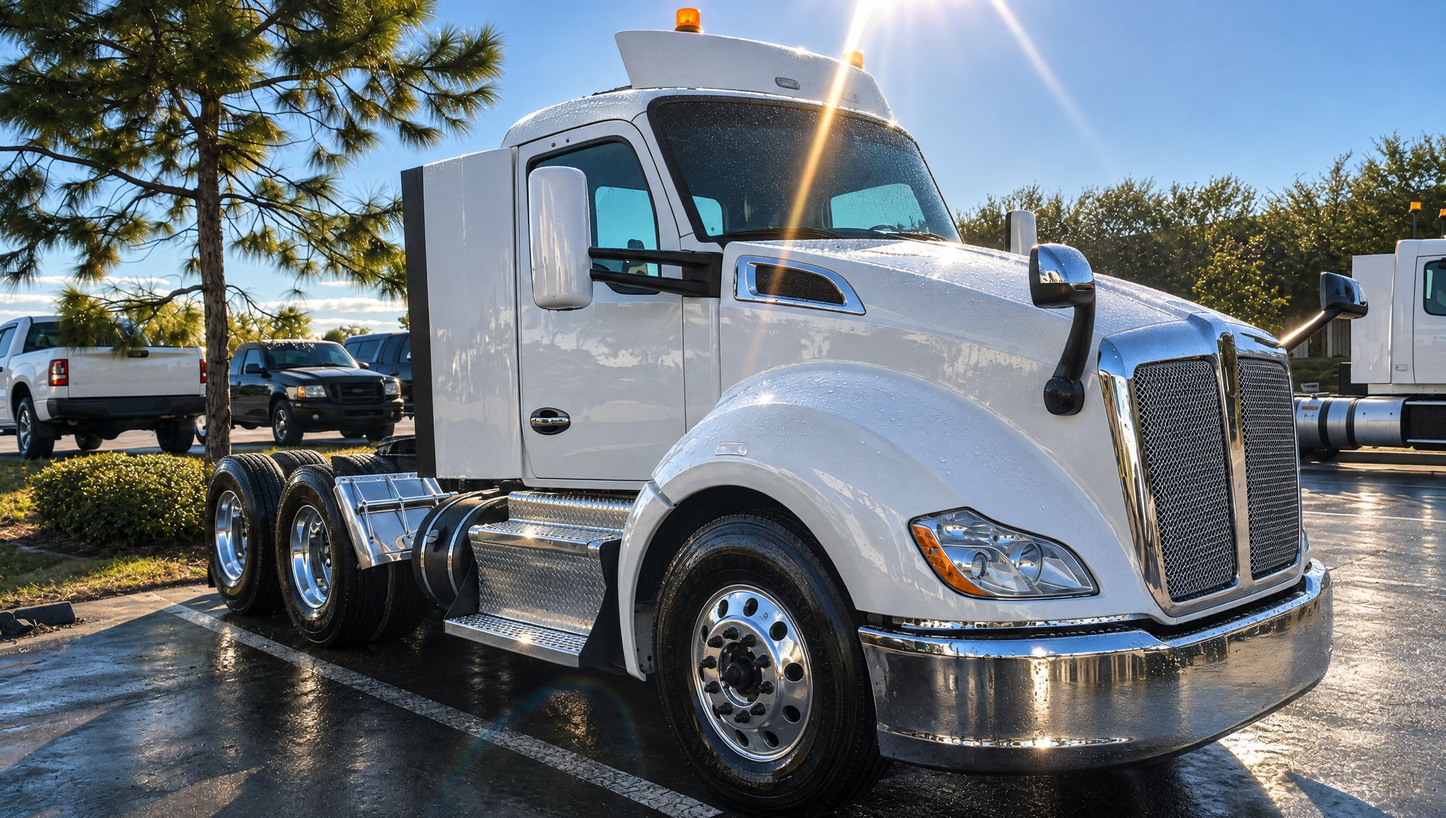
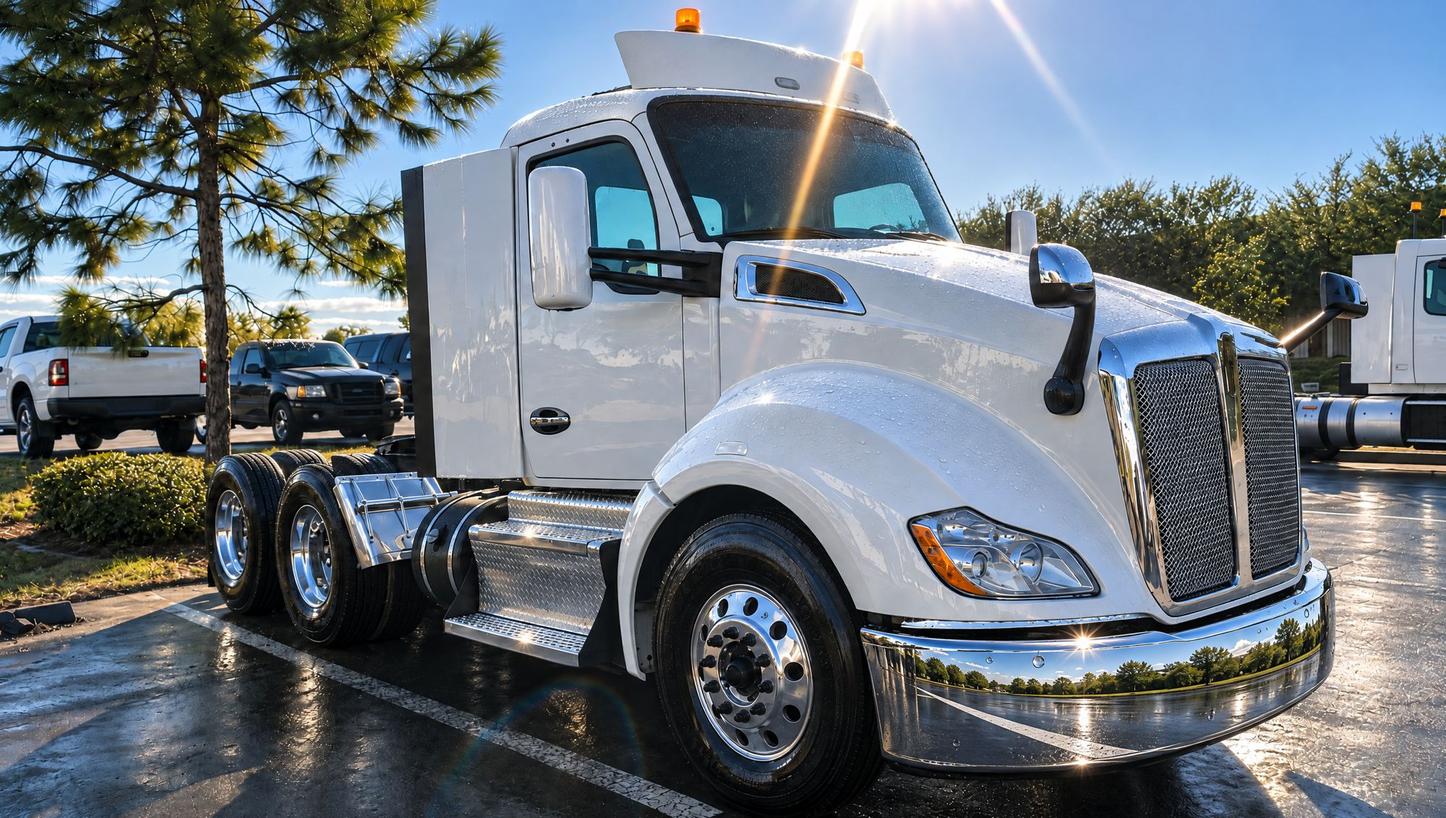
feat: sharper chrome bumper in hero photo

diff --git a/index.html b/index.html
@@ -12,7 +12,7 @@
   <link rel="preconnect" href="https://fonts.googleapis.com">
   <link rel="preconnect" href="https://fonts.gstatic.com" crossorigin>
   <link href="https://fonts.googleapis.com/css2?family=Inter:wght@400;500;600;700&family=Unbounded:wght@500;700;800&display=swap" rel="stylesheet">
-  <link rel="stylesheet" href="styles.css?v=20261117c">
+  <link rel="stylesheet" href="styles.css?v=20261117d">
 </head>
 <body>
 
@@ -227,7 +227,7 @@
 <script src="https://cdnjs.cloudflare.com/ajax/libs/gsap/3.12.5/gsap.min.js"></script>
 <script src="https://cdnjs.cloudflare.com/ajax/libs/gsap/3.12.5/ScrollTrigger.min.js"></script>
 <script src="https://cdn.jsdelivr.net/npm/lenis@1.1.13/dist/lenis.min.js"></script>
-<script src="i18n.js?v=20261117c"></script>
-<script src="app.js?v=20261117c"></script>
+<script src="i18n.js?v=20261117d"></script>
+<script src="app.js?v=20261117d"></script>
 </body>
 </html>

diff --git a/styles.css b/styles.css
@@ -54,7 +54,7 @@ section { padding: clamp(80px, 12vw, 150px) 0; position: relative; }
 
 /* ---------- Hero ---------- */
 .hero { min-height: 100svh; display: flex; align-items: flex-end; padding: clamp(130px, 13vw, 180px) 0 clamp(48px, 8vw, 90px); overflow: hidden; }
-.hero-bg { position: absolute; inset: 0 0 auto 0; height: 100svh; background: url("img/hero-truck.jpg") 70% 50% / cover no-repeat; transform-origin: 60% 60%; }
+.hero-bg { position: absolute; inset: 0 0 auto 0; height: 100svh; background: url("img/hero-truck.jpg?v=2") 70% 50% / cover no-repeat; transform-origin: 60% 60%; }
 @media (max-width: 720px) { .hero-bg { background-position: 70% 50%; } }
 .hero::before { content: ""; position: absolute; inset: 0; z-index: 1; background:
   linear-gradient(90deg, rgba(4,7,12,.62) 0%, rgba(4,7,12,.38) 38%, rgba(4,7,12,0) 68%),
